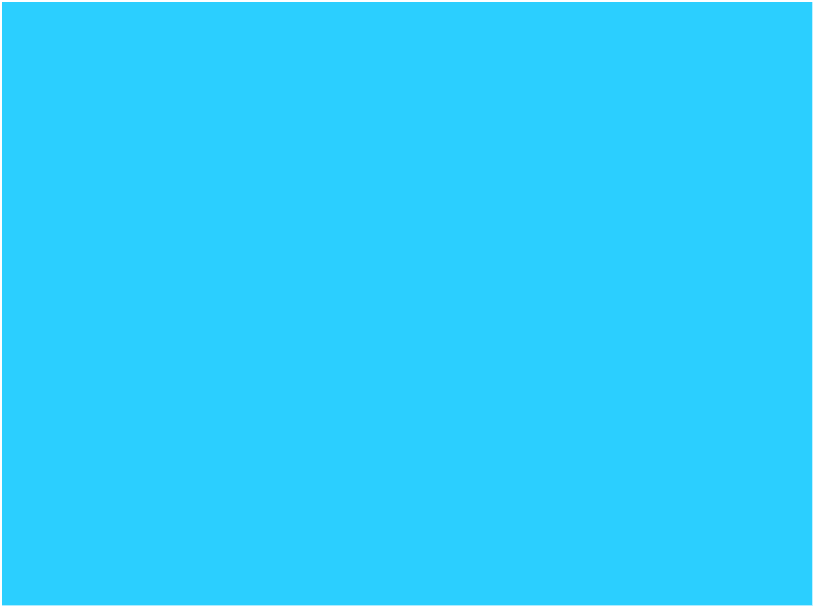
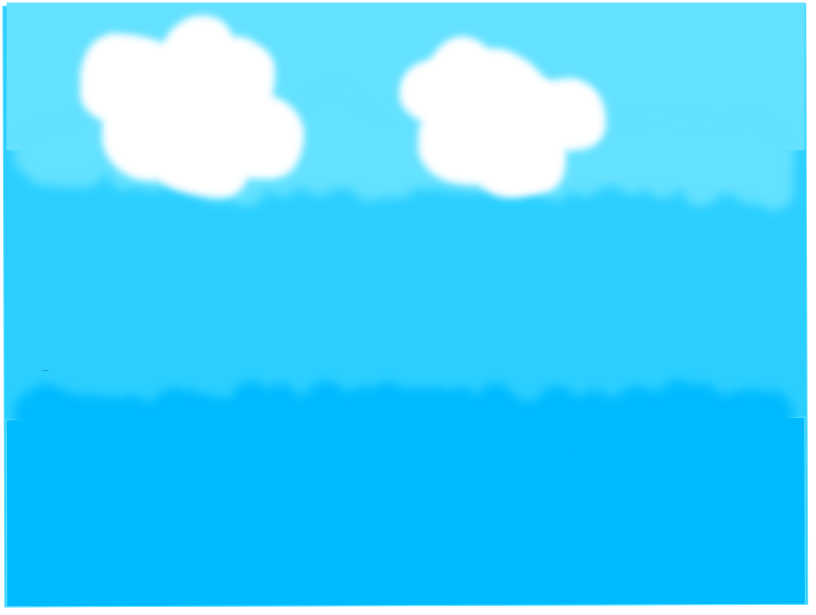
new background

diff --git a/src/Main.py b/src/Main.py
@@ -11,7 +11,7 @@ Gravity        = 0.5
 JumpStrength   = 13
 MaxFall        = 15
 PlayerSpeed    = 5
-DashBoost      = 18
+DashBoost      = 20
 DashDuration   = 12
 DashCooldown   = 90
 
@@ -513,15 +513,6 @@ def draw_hud(surf):
         pygame.draw.circle(hud_surf, (255,255,255,60), (cx,cy), 8, 1)
 
     #dash cooldown bar
-    BarX, BarY, barW, BarH = Width//2 - 50, Height-28, 100, 10
-    pygame.draw.rect(hud_surf, ColorDashEmpty+(180,), (BarX-1, BarY-1, barW+2, BarH+2), border_radius=6)
-    ratio = 1 - player.dash_cd / DashCooldown
-    fill_w = int(barW * ratio)
-    if fill_w > 0:
-        pygame.draw.rect(hud_surf, ColorDashFill+(220,), (BarX, BarY, fill_w, BarH), border_radius=5)
-    label = "DASH" if ratio >= 1 else f"DASH  {int(ratio*100)}%"
-    lbl = font_small.render(label, True, ColorDashFill if ratio>=1 else (120,160,200))
-    hud_surf.blit(lbl, (BarX + barW//2 - lbl.get_width()//2, BarY - 18))
 
     #game over 
     if lives <= 0:
